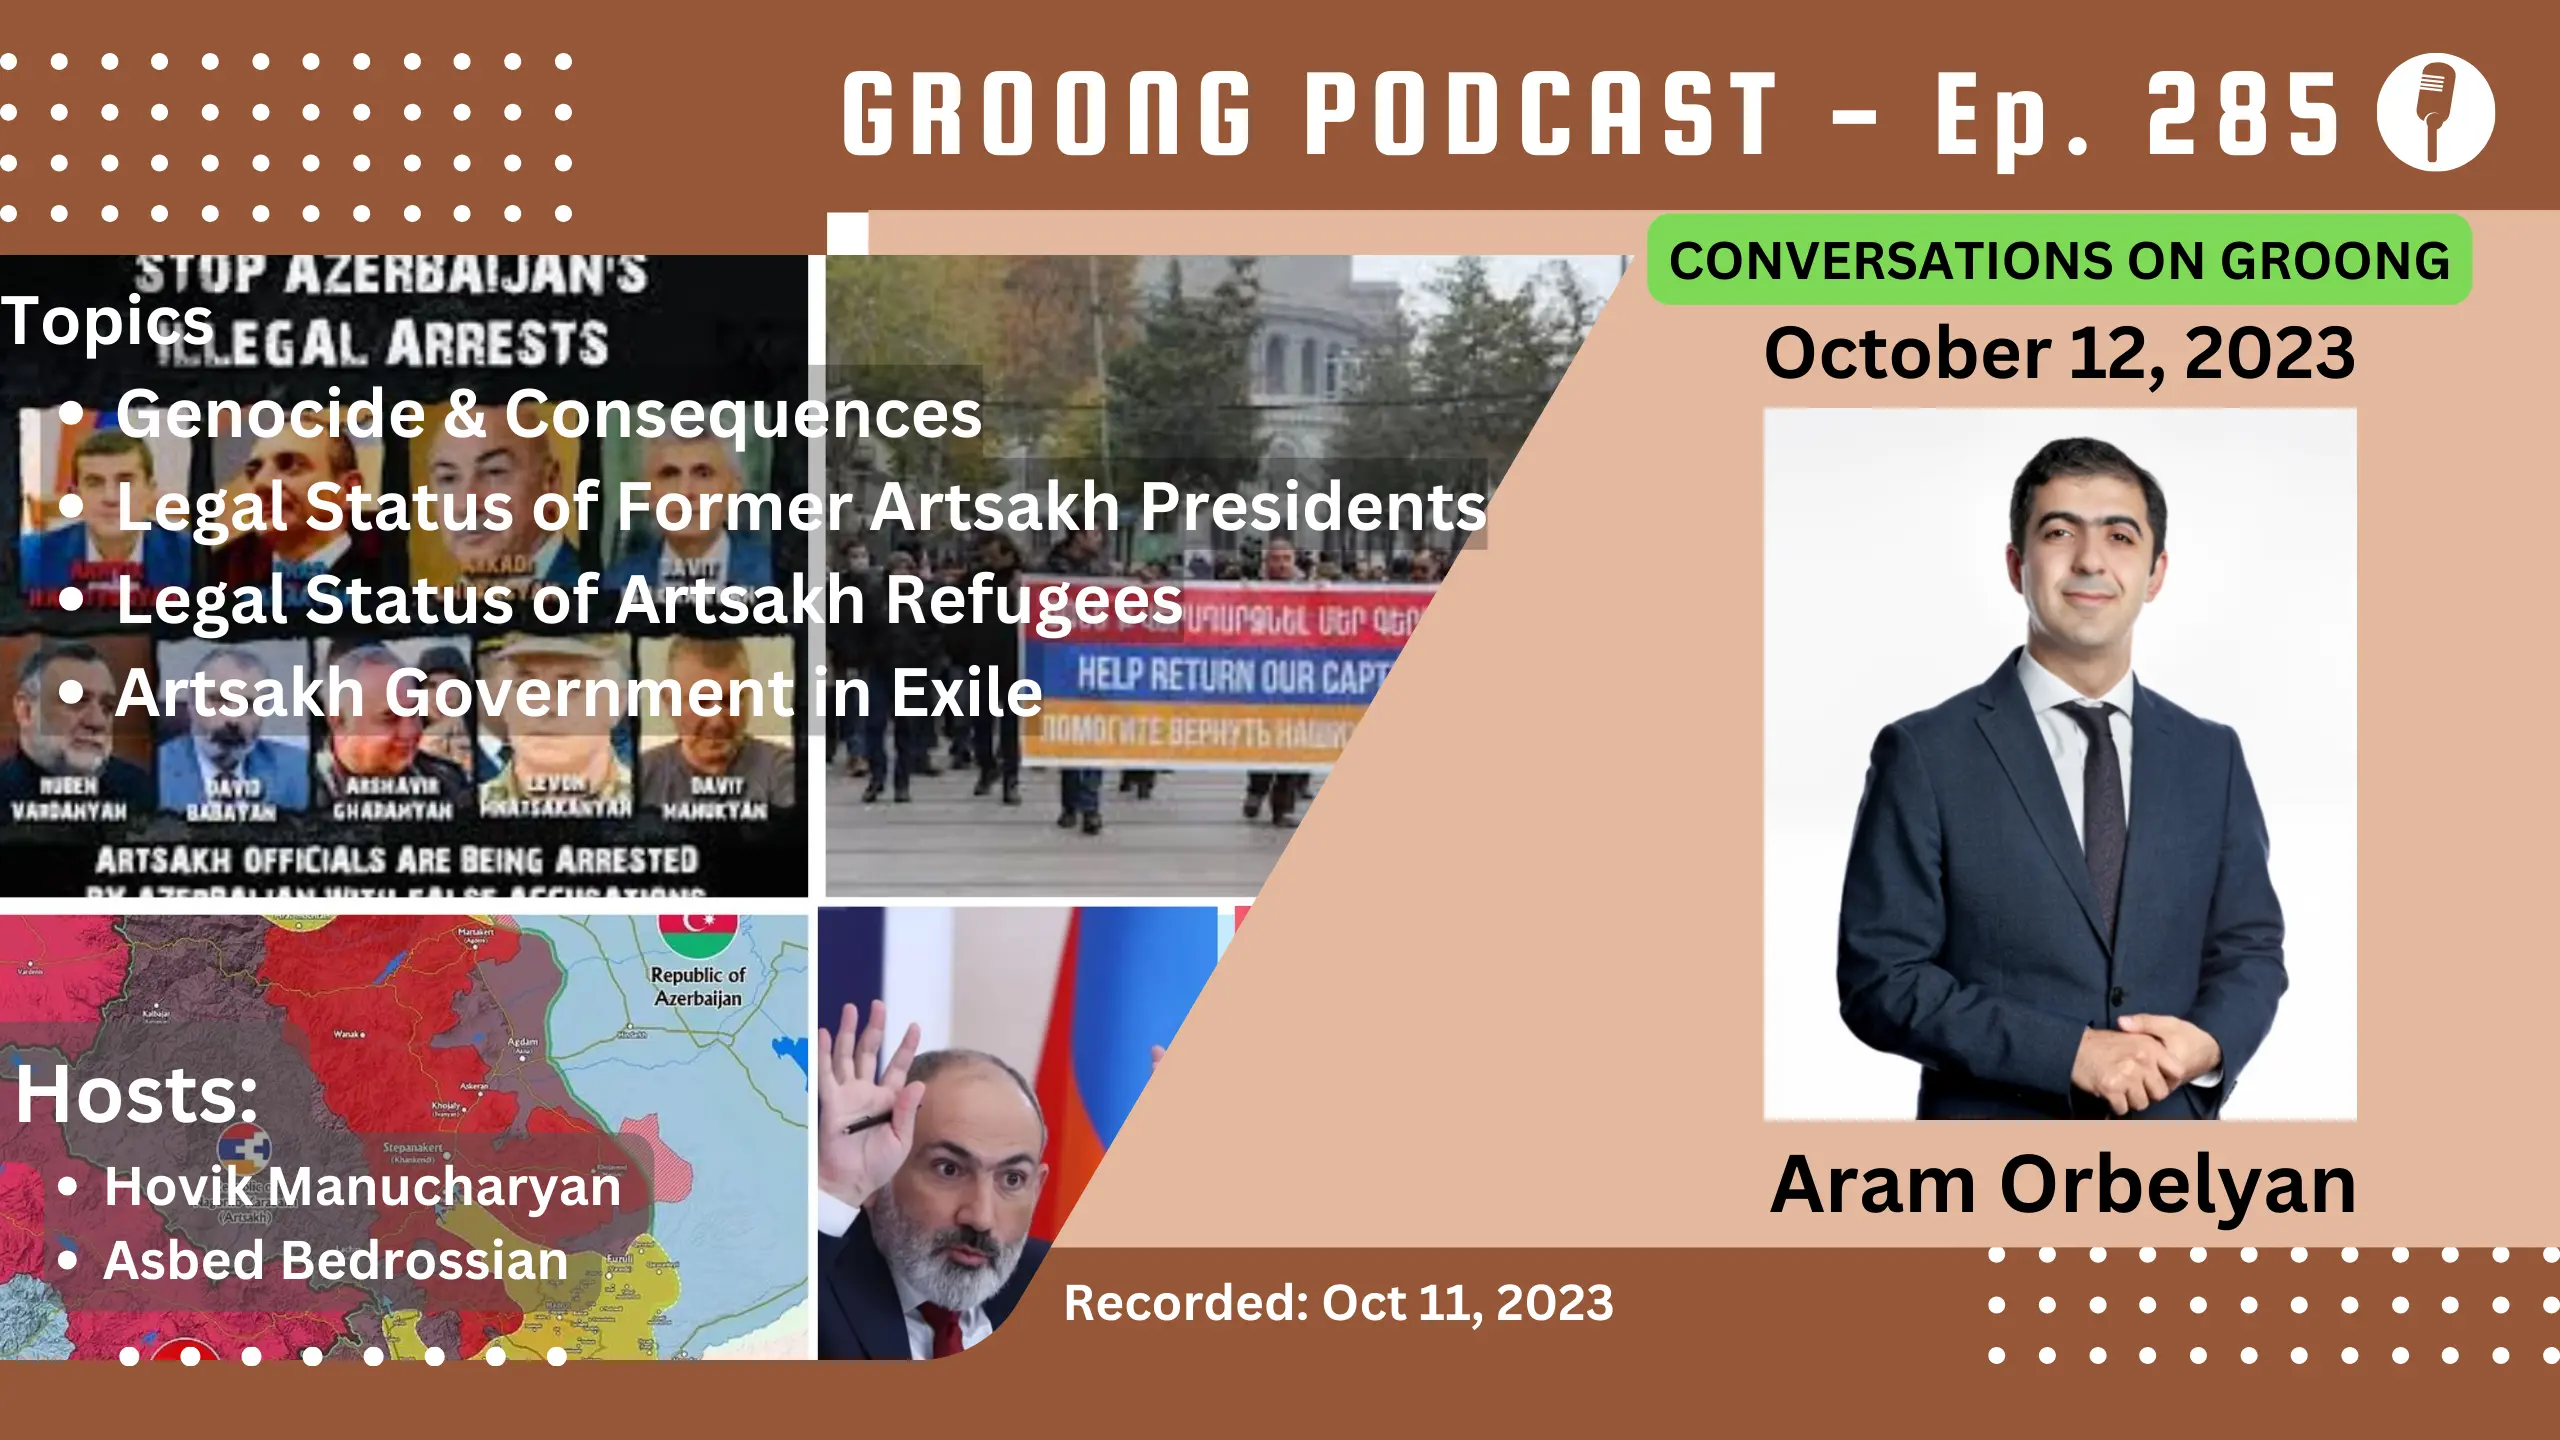
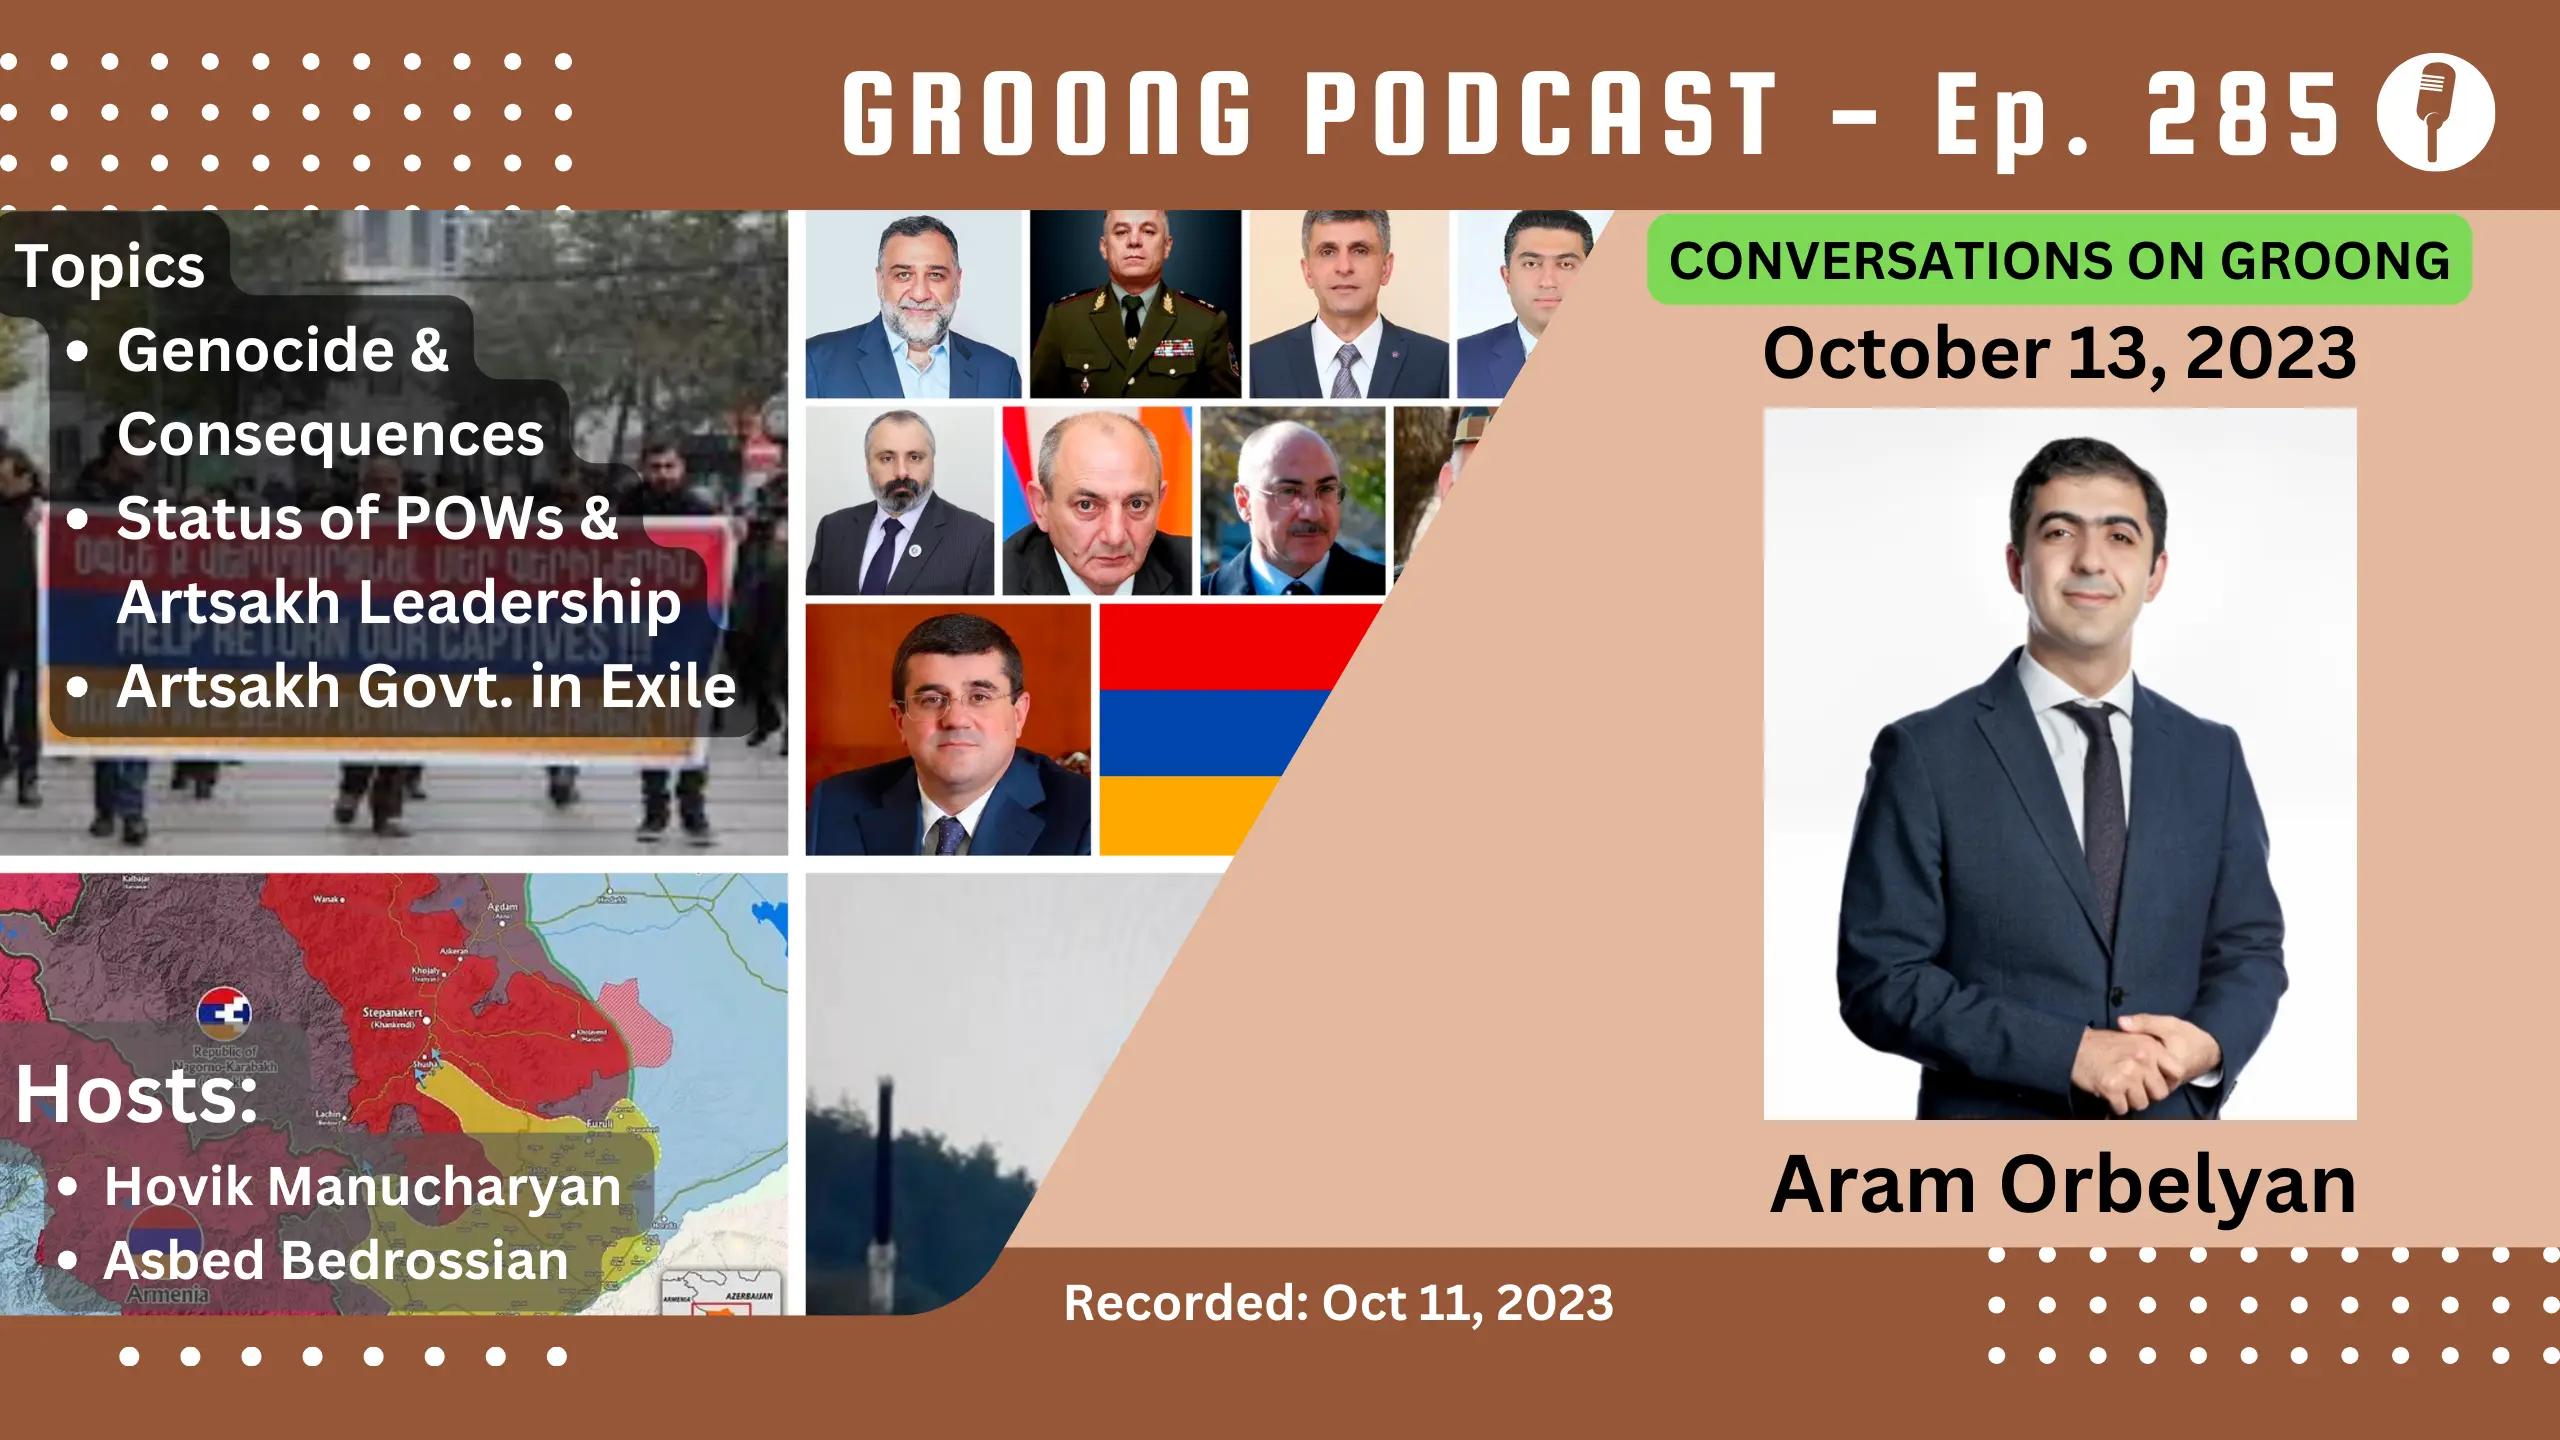
Updated episode 285

diff --git a/content/episode/285-aram-orbelyan-genocide-karabakh-pows-leader-refugees-legal-status-1991-alma-ata-declaration.md b/content/episode/285-aram-orbelyan-genocide-karabakh-pows-leader-refugees-legal-status-1991-alma-ata-declaration.md
@@ -1,12 +1,11 @@
 +++
-Date = 2023-10-12T22:00:00+04:00
-upcoming = true
+Date = 2023-10-13T22:00:00+04:00
+upcoming = false
 
-podcast_file = ""
-podcast_duration = ""
-podcast_bytes = ""
-youtube = ""
-
+podcast_file = "13772663-aram-orbelyan-genocide-consequences-artsakh-leadership-government-in-exile-ep-285-october-13-2023.mp3"
+podcast_duration = "3627"
+podcast_bytes = "43559653"
+youtube = "ZOD9GU8XmIQ"
 
 episode_image = "img/episode/285/thumbnail-285.webp"
 episode_banner = "img/episode/285/banner-285.webp"
@@ -33,8 +32,7 @@ Description = """
 
 #### Topics:
 * Genocide & Consequences
-* Legal Status of Former Artsakh Presidents
-* Legal Status of Artsakh Refugees
+* Legal Status of Former Artsakh Leadership
 * Artsakh Government in Exile
 
 Episode 285 | Recorded: October 11, 2023
